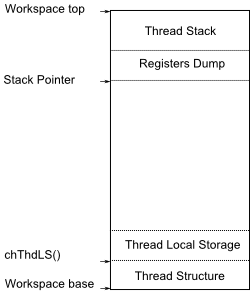
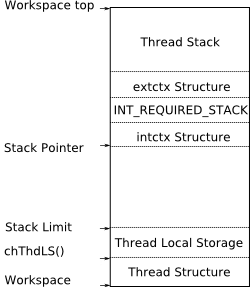
git-svn-id: https://svn.code.sf.net/p/chibios/svn2/trunk@566 839915b6-73f9-46d8-aad0-56b2323169cb

diff --git a/src/templates/chcore.h b/src/templates/chcore.h
@@ -32,27 +32,39 @@
 
 /**
  * Base type for stack alignment.
+ * This type is used only for stack alignment reasons thus can be anything from
+ * a char to a double.
  */
 typedef uint8_t stkalign_t;
 
 /**
  * Interrupt saved context.
+ * This structure represents the stack frame saved during a preemption-capable
+ * interrupt handler.
  */
 struct extctx {
 };
 
 /**
  * System saved context.
+ * This structure represents the inner stack frame during a context switching.
  */
 struct intctx {
 };
 
+/**
+ * Platform dependent part of the @p Thread structure.
+ * This structure usually contains just the saved stack pointer defined as a
+ * pointer to a @p intctx structure.
+ */
 typedef struct {
   struct intctx *sp;
 } Context;
 
 /**
  * Platform dependent part of the \p chThdCreate() API.
+ * This code usually setup the context switching frame represented by a
+ * @p intctx structure.
  */
 #define SETUP_CONTEXT(workspace, wsize, pf, arg)                        \
 {                                                                       \
@@ -60,12 +72,18 @@ typedef struct {
 
 /**
  * Stack size for the system idle thread.
+ * This size depends on the idle thread implementation, usually the idle
+ * thread should take no more space than those reserved
+ * by @p INT_REQUIRED_STACK.
  */
 #define IDLE_THREAD_STACK_SIZE 0
 
 /**
  * Per-thread stack overhead for interrupts servicing, it is used in the
  * calculation of the correct working area size.
+ * This value can be zero on those architecture where there is a separate
+ * interrupt stack and the stack space between @p intctx and @p extctx is
+ * known to be zero.
  */
 #define INT_REQUIRED_STACK 0
 

diff --git a/src/templates/chcore.c b/src/templates/chcore.c
@@ -88,12 +88,19 @@ void chSysUnlock(void) {
 }
 
 /**
- * Context switch.
+ * Performs a context switch.
+ * This is the most critical code in any port, this function is responsible
+ * for the context switch between 2 threads.
+ * @param otp the thread to be switched out
+ * @param ntp the thread to be switched in
+ * @note The implementation of this code affects <b>directly</b> the context
+ *       switch performance so optimize here as much as you can.
  */
 void chSysSwitchI(Thread *otp, Thread *ntp) {}
 
 /**
  * Prints a message on the system console (if any).
+ * @param msg the message to be printed on the system console
  */
 void chSysPuts(char *msg) {
 }
